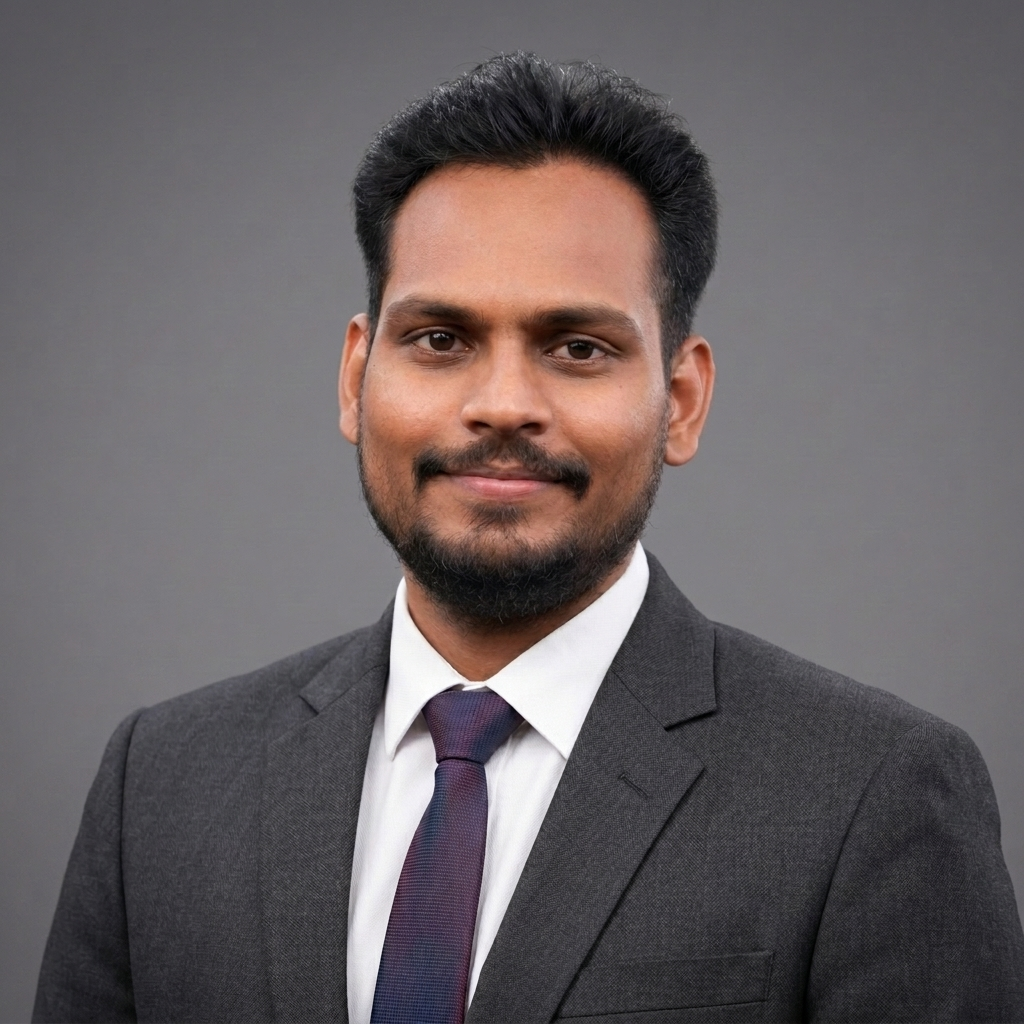
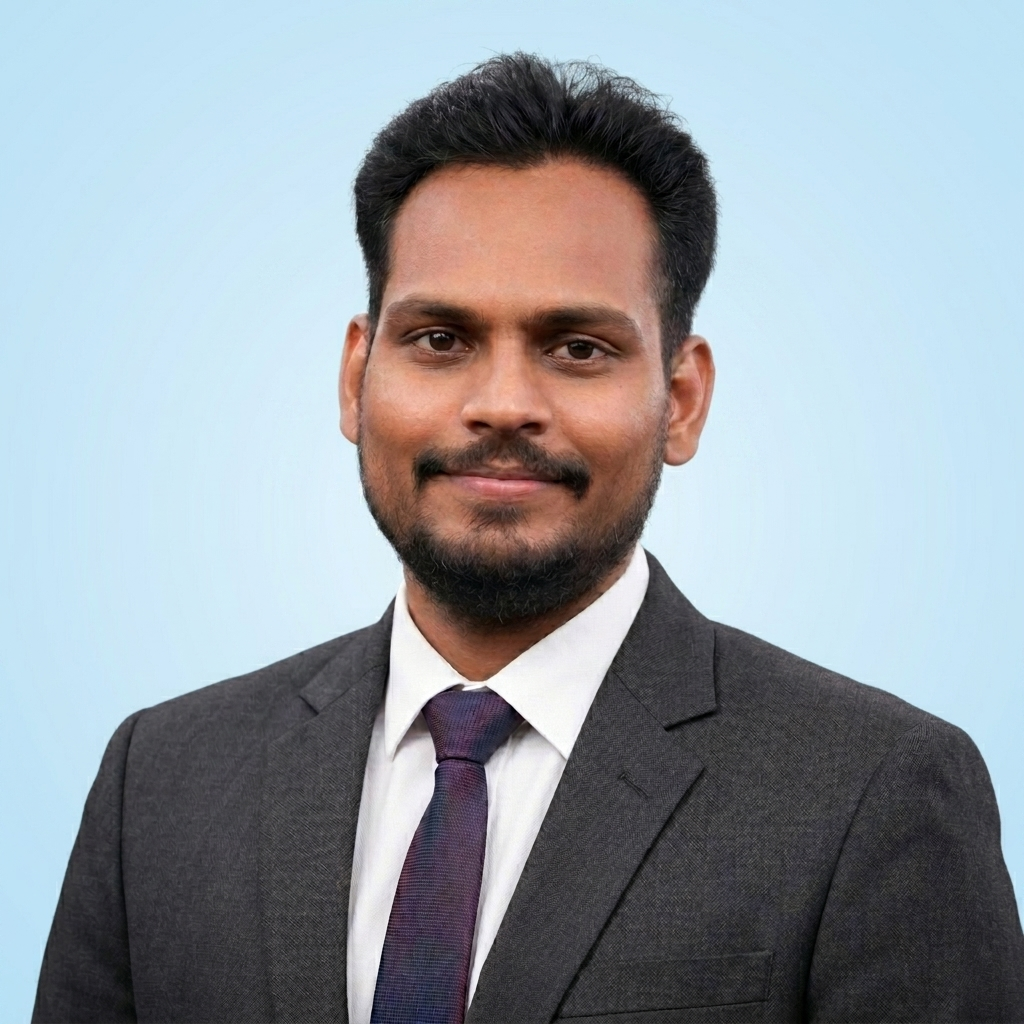
style: fix team photos head-cropping and update Naveen background

diff --git a/src/componenet/Team.js b/src/componenet/Team.js
@@ -17,6 +17,7 @@ function Team() {
       name: "Hemant Mehta",
       position: "Founder & Solution Architect",
       image: "/images/professional-headshot-suit-2.png",
+      objectPosition: "object-center",
       bio: "22+ years of technology leadership and enterprise software design. Architected complex loan systems, cotton mill ERP platforms, and custom databases. Deep specialist in C#, .NET Core, SQL Server, and query plan performance tuning.",
       skills: ["Software Architecture", "C# & .NET Core", "SQL Server Optimization", "API Design", "Legacy Modernization"],
       social: {
@@ -27,7 +28,8 @@ function Team() {
     {
       name: "Priya Shivhare",
       position: "Director & Strategy Lead",
-      image: "https://images.unsplash.com/photo-1494790108755-2616b612b786?q=80&w=400&auto=format&fit=crop",
+      image: "/images/priya.png",
+      objectPosition: "object-top",
       bio: "22+ years of experience in technical planning, business strategy, and delivery management. Directs client alignment, scope sizing, and project governance for all international accounts.",
       skills: ["Product Strategy", "Project Governance", "Requirement Mapping", "Client Relations", "Startup Advisory"],
       social: {
@@ -39,6 +41,7 @@ function Team() {
       name: "Naveen Raw",
       position: "Team Lead & Senior Mobile Engineer",
       image: "/images/professional-headshot-naveen.png",
+      objectPosition: "object-top",
       bio: "Lead mobile developer with extensive experience building React Native and Flutter portals. Expert in local database caching, offline synchronization, and native component integration.",
       skills: ["React Native", "Flutter", "Mobile Architecture", "Offline Caching", "API Sync"],
       social: {
@@ -50,6 +53,7 @@ function Team() {
       name: "Deepanshu",
       position: "Senior Mobile & Frontend Developer",
       image: "/images/deepanshu.png",
+      objectPosition: "object-top",
       bio: "Frontend and mobile specialist with deep expertise in cross-platform UI rendering, state management pipelines, and robust responsive layouts.",
       skills: ["React", "Flutter", "TypeScript", "Redux Toolkit", "Responsive Design"],
       social: {
@@ -61,6 +65,7 @@ function Team() {
       name: "Kunal Awarekar",
       position: "Full-Stack C# / SQL Engineer",
       image: "/images/kunal.jpeg",
+      objectPosition: "object-top",
       bio: "Full-stack engineer specializing in modern .NET Core backends, database procedures, and React portal configurations.",
       skills: ["C#", "ASP.NET Core", "SQL Server", "Web APIs", "React"],
       social: {
@@ -72,6 +77,7 @@ function Team() {
       name: "Shivani Yadav",
       position: "Software Developer",
       image: "/images/shivani.png",
+      objectPosition: "object-top",
       bio: "Backend developer focusing on relational data schemas, index tuning, integration scripting, and SQL reporting query design.",
       skills: ["PostgreSQL", "SQL Server", "Stored Procedures", "Data Migration", "C#"],
       social: {
@@ -83,6 +89,7 @@ function Team() {
       name: "Prachi Chobey",
       position: "Senior UI/UX Designer",
       image: "/images/Prachi.png",
+      objectPosition: "object-top",
       bio: "Creates visual design systems, wireframes, and click-through interactive prototypes in Figma, mapping seamless user journeys.",
       skills: ["Figma UI/UX", "Wireframing", "Interactive Prototypes", "Design Systems", "User Journeys"],
       social: {
@@ -94,6 +101,7 @@ function Team() {
       name: "Rahul",
       position: "Marketing & Growth Lead",
       image: "/images/Rahul.png",
+      objectPosition: "object-top",
       bio: "Lead marketing and business growth strategist. Specializes in client acquisition, brand development, marketing campaigns, and technology partnership management.",
       skills: ["Digital Marketing", "Growth Strategy", "Lead Generation", "Client Acquisition", "Brand Strategy"],
       social: {
@@ -191,7 +199,7 @@ function Team() {
                     <img 
                       src={member.image} 
                       alt={member.name} 
-                      className="w-full h-full object-cover grayscale-[20%] hover:grayscale-0 transition-all duration-300"
+                      className={`w-full h-full object-cover ${member.objectPosition || 'object-center'} grayscale-[20%] hover:grayscale-0 transition-all duration-300`}
                     />
                     <div className="absolute inset-0 bg-gradient-to-t from-gray-950 via-gray-950/20 to-transparent"></div>
                     <div className="absolute bottom-4 left-6">
